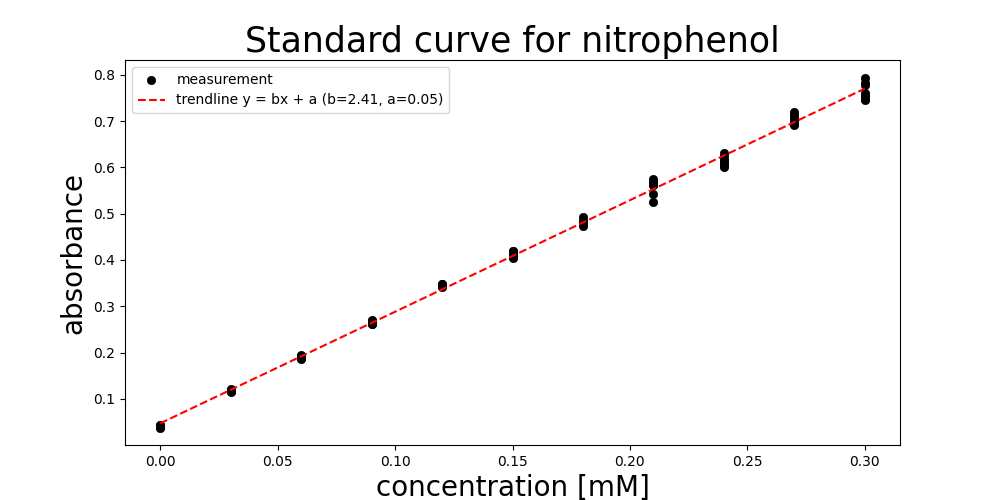
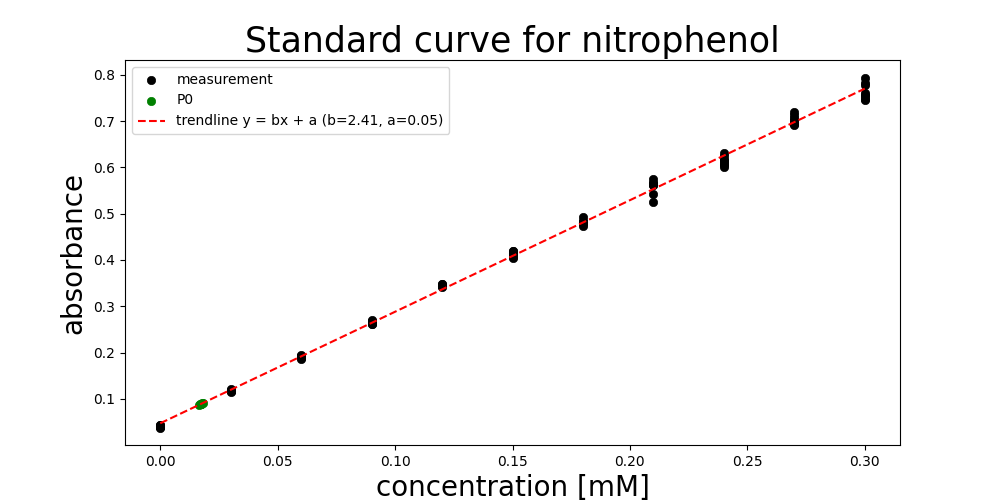
completig Q1

Changed region(s): [[0.124, 0.18, 0.465, 0.27], [0.186, 0.78, 0.217, 0.84]]

diff --git a/Reports/Enzymatic_activity_onitrophenyl-phosphatase/Data_analyse.py b/Reports/Enzymatic_activity_onitrophenyl-phosphatase/Data_analyse.py
@@ -29,8 +29,13 @@ f = lambda x: b*x + a
 c = np.linspace(x.min(), x.max(), 10)
 y_cap = f(c)
 
+A = data[data['label'] == 'M1'][column_samples[-1]]
+P = lambda z: z/b
+P0 = P(A)
+
 fig, ax = plt.subplots(1, figsize=(10, 5))
 ax.scatter(x,y, lw=0.5, c='black', label='measurement')
+ax.scatter(P0,A+a, lw=0.5, c='green', label='P0')
 ax.plot(c, y_cap, ls='--', c='red', label=f'trendline y = bx + a (b={b:.2f}, a={a:.2f})')
 ax.set_xlabel('concentration [mM]', size=20)
 ax.set_ylabel('absorbance', size=20)
@@ -38,5 +43,7 @@ ax.set_title("Standard curve for nitrophenol", size=25)
 plt.legend()
 plt.savefig(dirname + '/fig1.png')
 
-    
+
+
+
 
